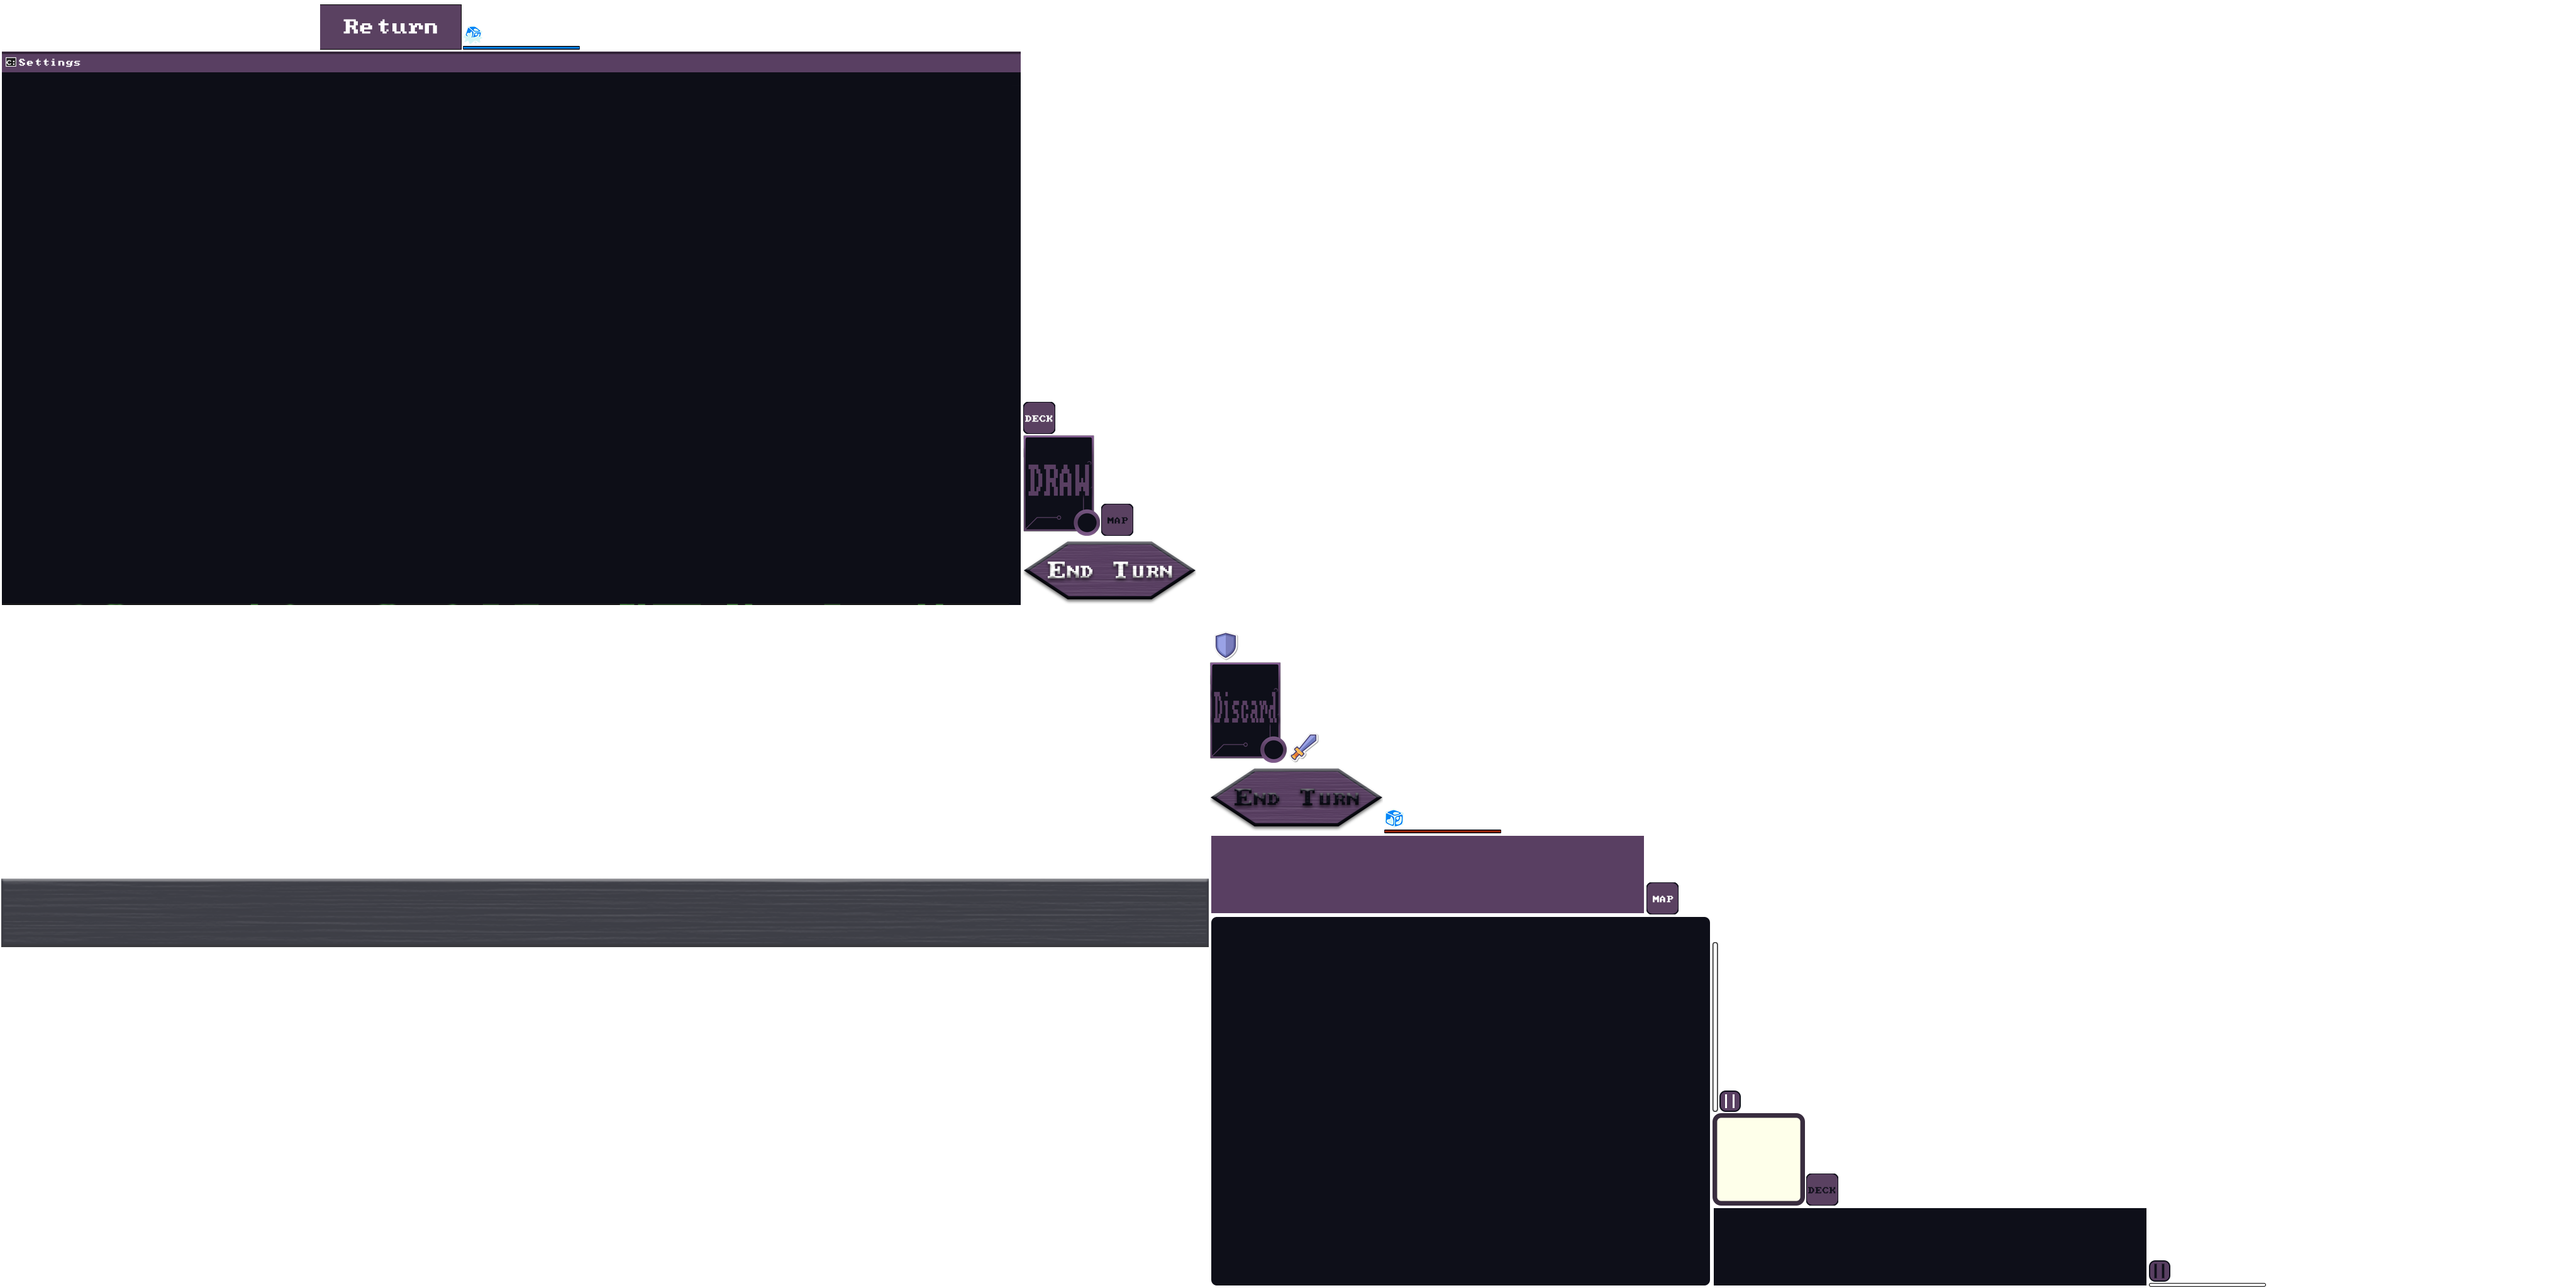
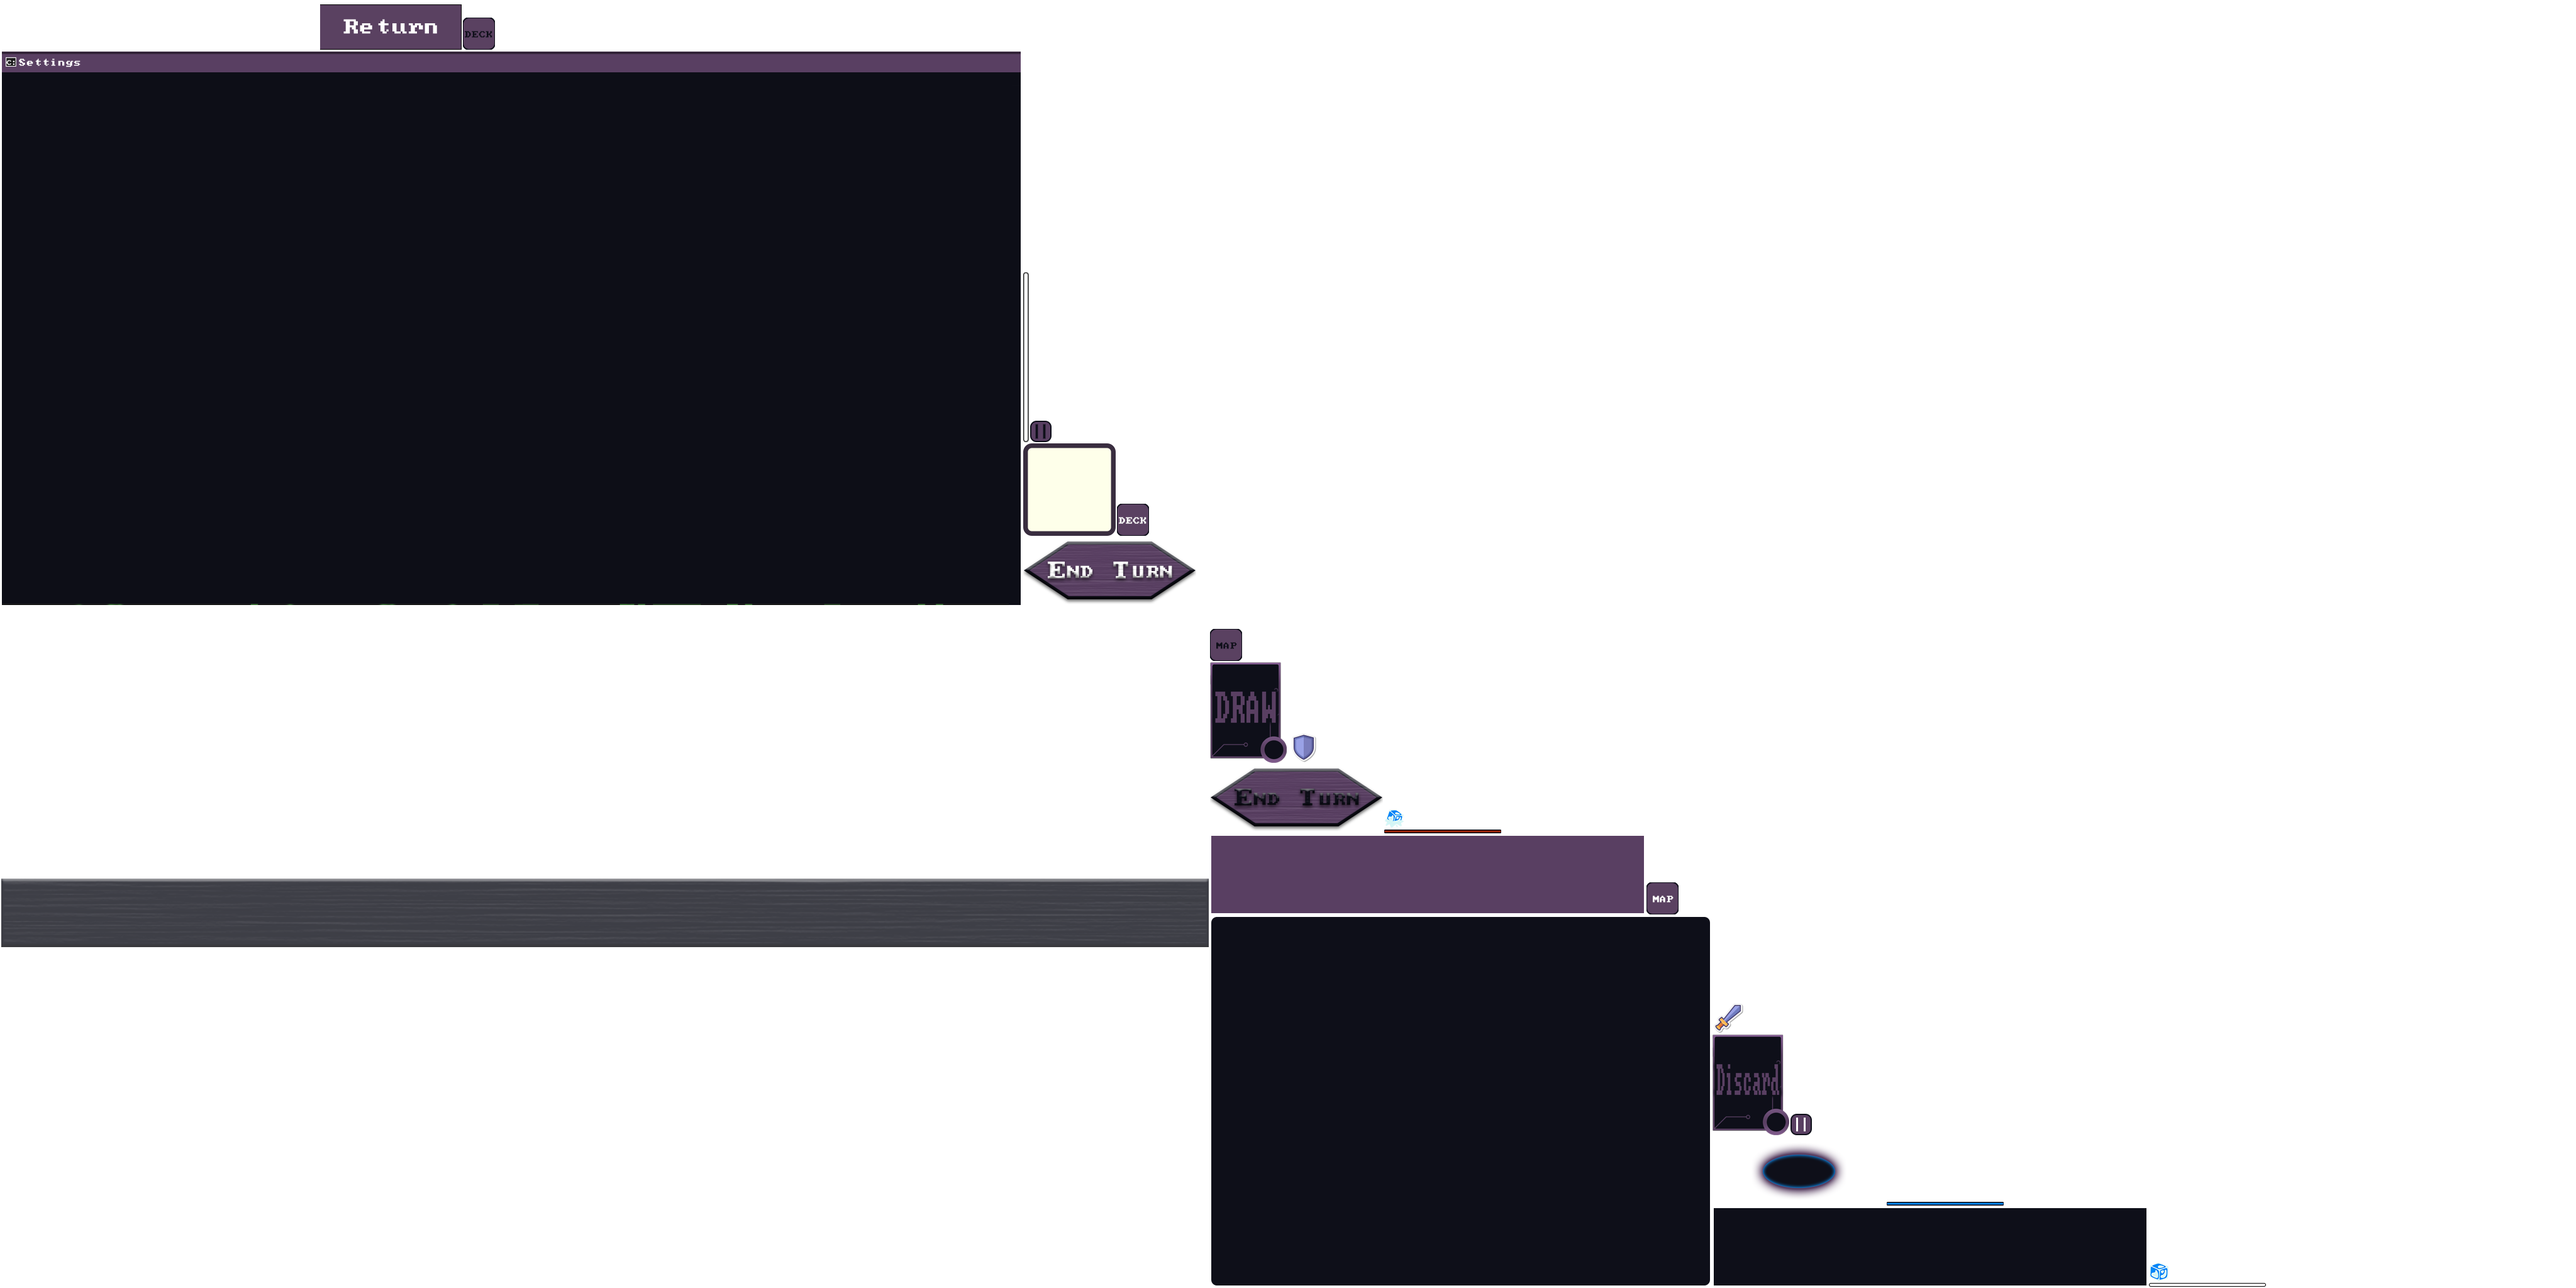
here ye go

diff --git a/gip-game-project/core/src/com/mygdx/game/cards/CardManager.java b/gip-game-project/core/src/com/mygdx/game/cards/CardManager.java
@@ -78,9 +78,9 @@ public class CardManager {
             case 2: final Card replicate = new Card(2, "Replicate", "ENCODE", CardType.ATTACK, 0, game.textureAtlas.findRegion("replicate"), elapsed_time, game);
                 playerCards.add(replicate); drawPile.add(replicate); break;
             case 3: final Card gotoCard = new Card(3, "Go To", "ENCODE. COMPILE", CardType.SKILL, 1, game.textureAtlas.findRegion("go to"), elapsed_time, game);
-                playerCards.add(gotoCard); drawPile.add(gotoCard);break;
+                playerCards.add(gotoCard); drawPile.add(gotoCard); break;
             case 4: final Card piercingShot = new Card(4, "Piercing Shot", "EXHAUST", CardType.ATTACK, 1, game.textureAtlas.findRegion("piercing shot"), true, elapsed_time, game);
-                playerCards.add(piercingShot); drawPile.add(piercingShot);
+                playerCards.add(piercingShot); drawPile.add(piercingShot); break;
             case 5: final Card fineTuning = new Card(5, "Fine Tuning", "DEXTERITY", CardType.POWER, 2, game.textureAtlas.findRegion("fine tuning"),elapsed_time, game);
                 playerCards.add(fineTuning); drawPile.add(fineTuning);
         }
@@ -88,16 +88,12 @@ public class CardManager {
 
     //method for playing cards (I'm gonna rewrite this 100%)
     public void playCard(Card card, Virus player, Monster monster) {
-        if (virusManager.getPlayer().getEnergyManager().getEnergy() != 0){
+        int damage;
+        if (virusManager.getPlayer().getEnergyManager().getEnergy() != 0 || card.getCost() < 1){
             switch (card.getId()) {
                 case 0:
-                    monster.setHealth(monster.getHealth()-6);
-                    virusManager.getPlayer().getEnergyManager().setEnergy(virusManager.getPlayer().getEnergyManager().getEnergy()
-                            - card.getCost());
-                    if (monster.getHealth() <= 0){
-                        monster.remove();
-                        monsterManager.setIntentVisible(false);
-                    }
+                    damage  = 6; // + multiplier (later)
+                    playAttackCard(damage, monster);
                     break;
                 case 1:
                     player.setBlock(player.getBlock()+6);
@@ -113,14 +109,21 @@ public class CardManager {
                     // encode
                     break;
                 case 4:
+                    damage = 10; // + multiplier (later)
                     for (int m = 0; m < monsterManager.getMonsterGroup().getChildren().size; m++){
                         Actor actor = monsterManager.getMonsterGroup().getChild(m);
                         if (actor instanceof Monster){
                             Monster monsterActor = (Monster) actor;
-                            monsterActor.setHealth(monsterActor.getHealth()-10);
+                            playAttackCard(damage, monsterActor);
                         }
                     }break;
                 case 5:game.log.debug("case 3");break;
+            }
+
+            // is enemy ded?
+            if (monster.getHealth() <= 0){
+                monster.remove();
+                monsterManager.setIntentVisible(false);
             }
 
             if (!card.isExhaust()){
@@ -133,23 +136,49 @@ public class CardManager {
         }
     }
 
+    public void playAttackCard(int damage, Monster monster){
+        if (monster.getblock() > 0) { // if the enemy has block
+            game.log.debug("block before damage : " + monster.getBlock());
+            if (monster.getblock() >= damage) {
+                monster.setblock(monster.getblock()-damage);
+            } else { // else if the enemy can't block fully but can block some...
+                int damageAfterBlock;
+                int damageBeforeBlock;
+                damageBeforeBlock = damage - monster.getblock();
+                game.log.debug("damage : " + damage);
+                monster.setblock(monster.getblock()-damageBeforeBlock);
+                damageAfterBlock = damage - damageBeforeBlock;
+                game.log.debug("damage after block : " + damageAfterBlock);
+                game.log.debug("health before damage : " + monster.getHealth());
+                monster.setHealth(monster.getHealth() - damageAfterBlock);
+                game.log.debug("health after damage : " + monster.getHealth());
+            }
+        } else { // if the enemy doesn't have block
+            game.log.debug("health before damage : " + monster.getHealth());
+            monster.setHealth(monster.getHealth() - damage);
+            game.log.debug("health after damage : " + monster.getHealth());
+        }
+    }
+
     //draws card in hand (later called by turnManager)
     public void drawcard(int amount) {
-        if (drawPile.size <= amount) {
-            for (Card card : discardPile) {
-                drawPile.add(card);
-            }
-            discardPile.clear();
-        }
         Random random = new Random();
-        System.out.println(drawPile.size);
+        //System.out.println(drawPile.size);
         for (int i = 0; i < amount; i++) {
             if (hand.size < 10) {
+                if (drawPile.size <= 0) {
+                    for (Card card : discardPile) {
+                        drawPile.add(card);
+                    }
+                    discardPile.clear();
+                    refreshDisplayTable();
+                }
                 int randomIndex = random.nextInt(drawPile.size);
                 hand.add(drawPile.get(randomIndex));
                 drawPile.removeIndex(randomIndex);
             }
         }
+        refreshDisplayTable();
     }
 
     //rendering hand actor group on screen
@@ -272,10 +301,12 @@ public class CardManager {
         Table table = displayCards(0);
         Table drawTable = displayCards(1);
         Table discardTable = displayCards(2);
+        Table exhaustTable = displayCards(3);
 
         tableGroup.addActor(table);
         tableGroup.addActor(drawTable);
         tableGroup.addActor(discardTable);
+        tableGroup.addActor(exhaustTable);
 
 
         Button deckReturn = new Button(game.skin, "return");
@@ -290,6 +321,7 @@ public class CardManager {
                 tableGroup.getChild(0).setVisible(false);
                 tableGroup.getChild(1).setVisible(false);
                 tableGroup.getChild(2).setVisible(false);
+                //tableGroup.getChild(3).setVisible(false);
                 gameScreenGroup.setVisible(true);
                 return true;
             }
@@ -325,6 +357,9 @@ public class CardManager {
             case 2:
                 title = "Discard pile";
                 displayList = discardPile; break;
+            case 3:
+                title = "Exhaust pile";
+                displayList = exhaustPile; break;
         }
 
 

diff --git a/gip-game-project/core/src/com/mygdx/game/infobox/InfoBoxManager.java b/gip-game-project/core/src/com/mygdx/game/infobox/InfoBoxManager.java
@@ -29,22 +29,14 @@ public class InfoBoxManager {
             Actor actor = cell.getActor();
             if (actor instanceof Card) {
                 Card card = (Card) actor;
-                System.out.println("Actor XY " + cards.getCell(card).getActorX() + cards.getCell(card).getActorY());
                 String[] words = card.getDescription().replaceAll("[.]", "").split("\\s");
-                System.out.println();
                 boolean isCardInfo = false;
-                System.out.println("-------------- " + card.getName() + " ---------------");
                 for (String word : words) {
-                    System.out.print(word + " ");
-                    System.out.println();
                     for (CardInfoType value : CardInfoType.values()) {
                         if (value.name().equals(word)) {
                             final InfoBox infoBox = new InfoBox("", game.skin, "card-info", word, game, stage);
                             infoBox.setPosition(cards.getCell(card).getActorX() + cards.getCell(card).getActorWidth()/2 + 120,
                                     cards.getCell(card).getActorY() + cards.getCell(card).getActorHeight()/2 + 80);
-
-
-
                             infoBox.setVisible(false);
                             card.addListener(new ClickListener() {
                                 @Override
@@ -63,7 +55,6 @@ public class InfoBoxManager {
                                     }
                                 }
                             });
-                            System.out.println("Info XY " + infoBox.getX() + infoBox.getY());
                             stage.addActor(infoBox);
                         }
                     }
@@ -73,33 +64,5 @@ public class InfoBoxManager {
 
 
         }
-
-
-        /*
-        for (Card card : cards) {
-            String[] words = card.getDescription().replaceAll("[.]", "").split("\\s");
-            System.out.println();
-            boolean isCardInfo = false;
-            System.out.println("-------------- " + card.getName() + " ---------------");
-            for (String word : words) {
-                System.out.print(word + " ");
-                System.out.println();
-
-            }
-            canInfoTable = new Table();
-            System.out.println((getWidth()*0.6F) + " " + (getHeight()*0.6F));
-            canInfoTable.setSize(147, (getHeight()*0.6F));
-            canInfoTable.setPosition(getX()+getWidth()*0.6F, getY()+getHeight()*0.6F-200);
-            for (Actor child : cardInfo.getChildren()) {
-                Window window = (Window) child;
-                canInfoTable.add(window).size(window.getWidth(), window.getHeight());
-            }
-        }
-
-         */
-
-
-
-
     }
 }

diff --git a/gip-game-project/core/src/com/mygdx/game/screen/GameScreen.java b/gip-game-project/core/src/com/mygdx/game/screen/GameScreen.java
@@ -193,7 +193,7 @@ public class GameScreen implements Screen {
             @Override
             public boolean touchDown(InputEvent event, float x, float y, int pointer, int button) {
                 if (!settingsScreen.getSettingsGroup().isVisible() && !pausescreen) {
-                    if (!sessionManager.getTurnManager().getCardManager().getTableGroup().getChild(0).isVisible() && !sessionManager.getTurnManager().getCardManager().getTableGroup().getChild(1).isVisible() && !sessionManager.getTurnManager().getCardManager().getTableGroup().getChild(2).isVisible()){
+                    if (!sessionManager.getTurnManager().getCardManager().getTableGroup().getChild(0).isVisible() && !sessionManager.getTurnManager().getCardManager().getTableGroup().getChild(1).isVisible() && !sessionManager.getTurnManager().getCardManager().getTableGroup().getChild(2).isVisible() /* && !sessionManager.getTurnManager().getCardManager().getTableGroup().getChild(3).isVisible()*/){
                         if (previousState) {
                             showMap = true;
                             previousState = false;

diff --git a/gip-game-project/core/src/com/mygdx/game/TurnManager.java b/gip-game-project/core/src/com/mygdx/game/TurnManager.java
@@ -5,7 +5,6 @@ import com.badlogic.gdx.scenes.scene2d.InputEvent;
 import com.badlogic.gdx.scenes.scene2d.Stage;
 import com.badlogic.gdx.scenes.scene2d.ui.Button;
 import com.badlogic.gdx.scenes.scene2d.utils.ClickListener;
-import com.mygdx.game.cards.Card;
 import com.mygdx.game.cards.CardManager;
 import com.mygdx.game.monster.MonsterIntent;
 import com.mygdx.game.screen.DeathScreen;
@@ -50,9 +49,12 @@ public class TurnManager {
             }
         });
 
+        /*
         for (Card playerCard : cardManager.getPlayerCards()) {
             cardManager.getDrawPile().add(playerCard);
         }
+
+         */
     }
 
     public void emptyHand(){

diff --git a/gip-game-project/core/src/com/mygdx/game/virus/VirusManager.java b/gip-game-project/core/src/com/mygdx/game/virus/VirusManager.java
@@ -38,7 +38,7 @@ public class VirusManager {
 
     public void setVisible(boolean isVisible){
         player.setVisible(isVisible);
-        System.out.println(isVisible);
+        //.out.println(isVisible);
     }
 
    //getters and setter
